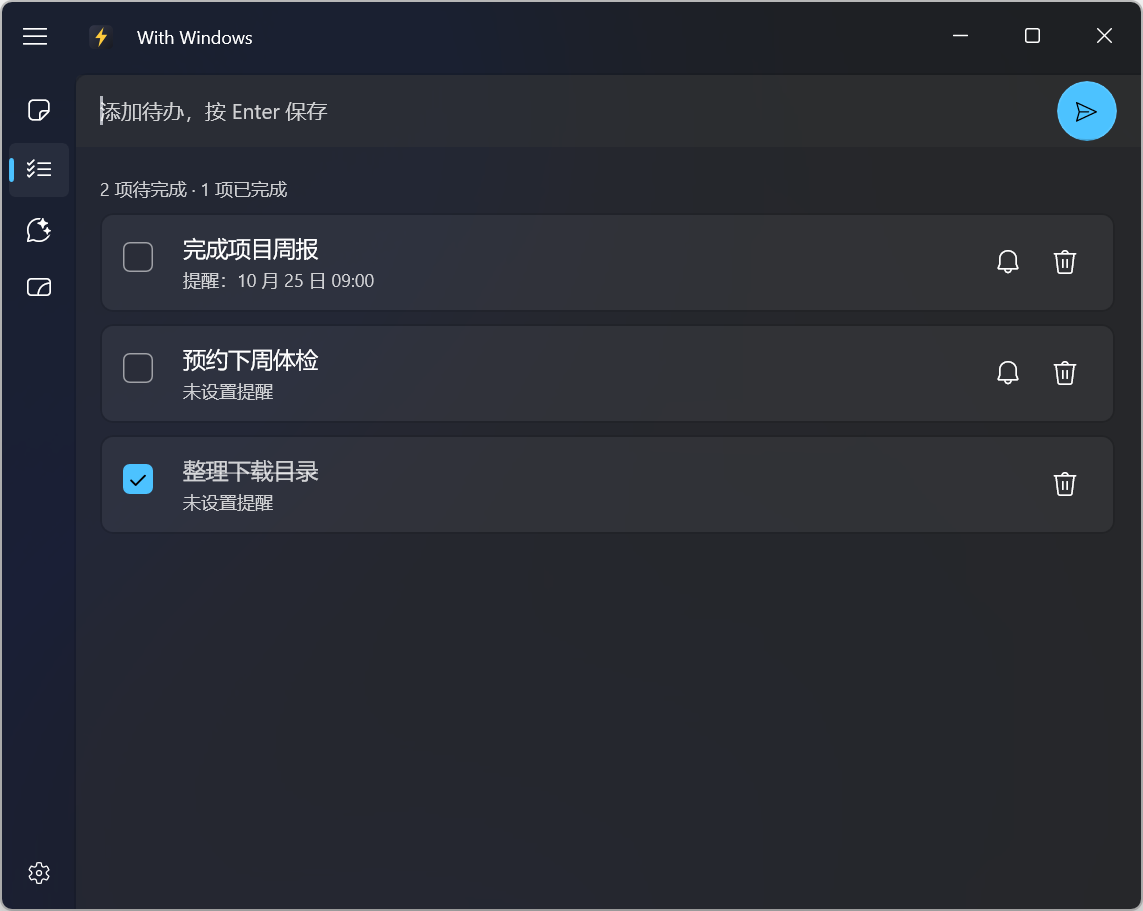
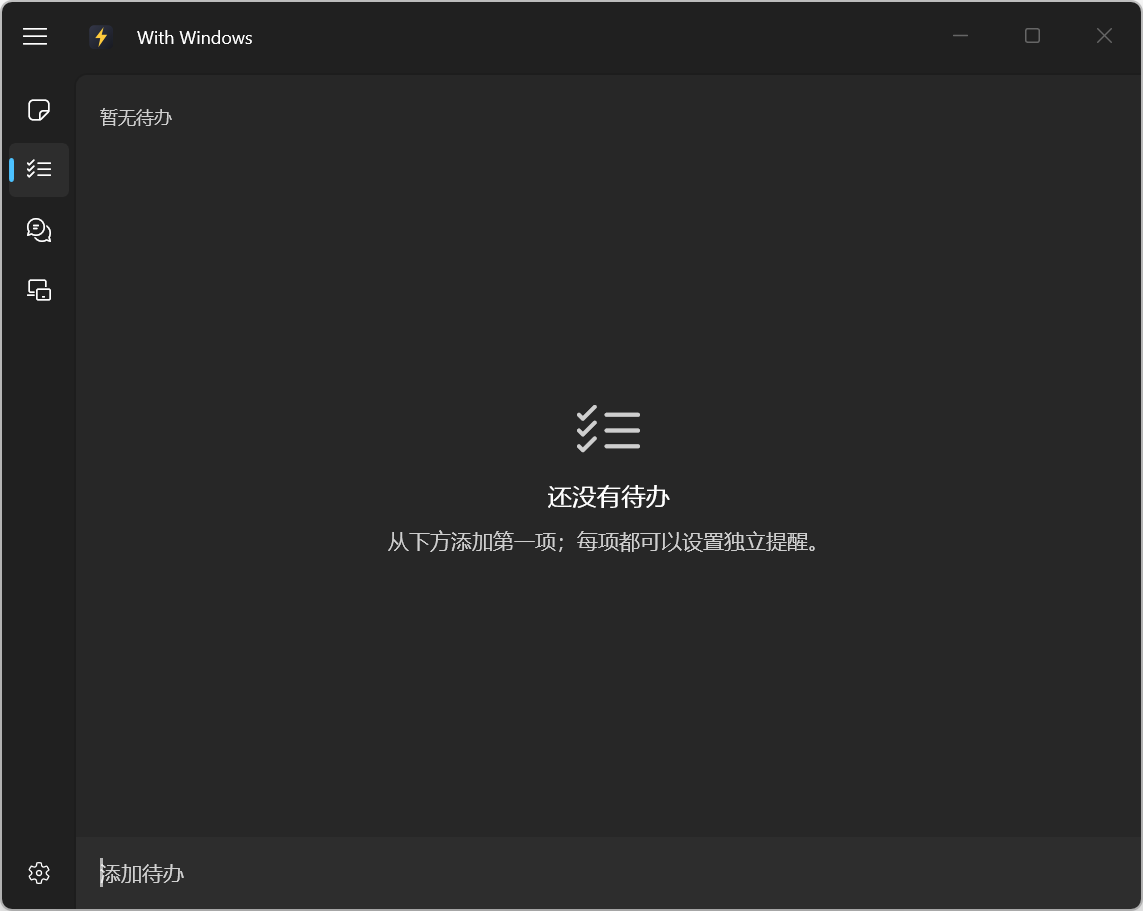
feat(界面): 调整待办输入、图标与托盘菜单

diff --git a/src/WithWindows.App/Views/TodoPage.xaml b/src/WithWindows.App/Views/TodoPage.xaml
@@ -98,20 +98,19 @@
     <Grid>
         <Grid.RowDefinitions>
             <RowDefinition Height="Auto" />
-            <RowDefinition Height="Auto" />
             <RowDefinition Height="*" />
+            <RowDefinition Height="Auto" />
         </Grid.RowDefinitions>
 
         <Grid
             x:Name="TodoToolbar"
+            Grid.Row="2"
             MinHeight="48"
             Padding="16,4"
             AutomationProperties.AutomationId="TodoToolbar"
-            Background="{ThemeResource LayerFillColorDefaultBrush}"
-            ColumnSpacing="8">
+            Background="{ThemeResource LayerFillColorDefaultBrush}">
             <Grid.ColumnDefinitions>
                 <ColumnDefinition Width="*" />
-                <ColumnDefinition Width="Auto" />
             </Grid.ColumnDefinitions>
 
             <TextBox
@@ -125,7 +124,7 @@
                 BorderThickness="0"
                 FontSize="14"
                 FocusVisualMargin="-4"
-                PlaceholderText="添加待办，按 Enter 保存"
+                PlaceholderText="添加待办"
                 PreviewKeyDown="OnNewInputKeyDown"
                 TextCompositionEnded="OnTextCompositionEnded"
                 TextCompositionStarted="OnTextCompositionStarted"
@@ -141,32 +140,11 @@
                     <Thickness x:Key="TextControlBorderThemeThicknessFocused">0</Thickness>
                 </TextBox.Resources>
             </TextBox>
-
-            <Button
-                Grid.Column="1"
-                Width="40"
-                Height="40"
-                Padding="0"
-                HorizontalContentAlignment="Center"
-                VerticalAlignment="Center"
-                VerticalContentAlignment="Center"
-                AutomationProperties.AutomationId="TodoAddButton"
-                AutomationProperties.Name="添加待办"
-                Click="OnAddClick"
-                CornerRadius="20"
-                Style="{StaticResource AccentButtonStyle}"
-                ToolTipService.ToolTip="添加待办">
-                <FontIcon FontSize="14" Glyph="&#xE724;">
-                    <FontIcon.RenderTransform>
-                        <TranslateTransform Y="1" />
-                    </FontIcon.RenderTransform>
-                </FontIcon>
-            </Button>
         </Grid>
 
         <InfoBar
             x:Name="TodoReminderBar"
-            Grid.Row="1"
+            Grid.Row="0"
             Margin="16,8,16,0"
             AutomationProperties.AutomationId="TodoReminderBar"
             IsClosable="True"
@@ -175,7 +153,7 @@
             Title="待办提醒" />
 
         <Grid
-            Grid.Row="2"
+            Grid.Row="1"
             MaxWidth="900"
             Margin="16,12,16,16"
             HorizontalAlignment="Stretch">
@@ -229,7 +207,7 @@
                         TextAlignment="Center" />
                     <TextBlock
                         Foreground="{ThemeResource TextFillColorSecondaryBrush}"
-                        Text="从上方添加第一项；每项都可以设置独立提醒。"
+                        Text="从下方添加第一项；每项都可以设置独立提醒。"
                         TextAlignment="Center"
                         TextWrapping="Wrap" />
                 </StackPanel>

diff --git a/src/WithWindows.App/Views/DisplayPage.xaml b/src/WithWindows.App/Views/DisplayPage.xaml
@@ -76,11 +76,11 @@
                                 <ColumnDefinition Width="Auto" />
                             </Grid.ColumnDefinitions>
 
-                            <!-- E7F9 = DeviceMonitorRightPic，与左栏「投影」项同一个字形 -->
+                            <!-- E975 = Devices2，与左栏「投影」项同一个字形 -->
                             <FontIcon
                                 Grid.Column="0"
                                 FontSize="20"
-                                Glyph="&#xE7F9;"
+                                Glyph="&#xE975;"
                                 VerticalAlignment="Center" />
 
                             <StackPanel Grid.Column="1" Spacing="2" VerticalAlignment="Center">

diff --git a/src/WithWindows.App/Services/TrayHost.cs b/src/WithWindows.App/Services/TrayHost.cs
@@ -3,13 +3,14 @@ using System.IO;
 using System.Linq;
 using Microsoft.UI.Xaml.Controls;
 using WinUIEx;
+using WithWindows.Core.Actions;
 using WithWindows.Tools;
 using WithWindows.Views;
 
 namespace WithWindows.Services;
 
 /// <summary>
-/// 托盘宿主：左键唤出主窗口，右键给出「记事 / 待办 / AI 对话 / 切换投影 · 设置 · 退出」。
+/// 托盘宿主：左键唤出主窗口，右键给出「记事 / 待办 / 对话 / 切换模式 · 设置 · 退出」。
 /// 实例必须由字段持有——被 GC 回收后图标会消失且没有任何报错。
 /// </summary>
 public sealed class TrayHost : IDisposable
@@ -84,8 +85,8 @@ public sealed class TrayHost : IDisposable
     }
 
     /// <summary>
-    /// 菜单选项：记事 / 待办 / AI 对话 / 切换投影 · 设置 · 退出。
-    /// 标题统一取自工具目录，避免改名后左栏与托盘叫法不一致。
+    /// 菜单选项：记事 / 待办 / 对话 / 切换模式 · 设置 · 退出。
+    /// 页面入口与左栏保持一致；操作项每次打开菜单时显示实际目标。
     /// </summary>
     private MenuFlyout BuildMenu()
     {
@@ -93,8 +94,14 @@ public sealed class TrayHost : IDisposable
 
         menu.Items.Add(NavigateItem(TitleOf(ToolCatalog.NotepadId), ToolCatalog.NotepadId, "TrayItemNotepad"));
         menu.Items.Add(NavigateItem(TitleOf(ToolCatalog.TodoId), ToolCatalog.TodoId, "TrayItemTodo"));
-        menu.Items.Add(NavigateItem(TitleOf(ToolCatalog.AiChatId), ToolCatalog.AiChatId, "TrayItemAiChat"));
-        menu.Items.Add(ActionItem(TitleOf(ToolCatalog.DisplayModeId), ToolCatalog.DisplayModeId, "TrayItemSwitchDisplay"));
+        menu.Items.Add(NavigateItem("对话", ToolCatalog.AiChatId, "TrayItemAiChat"));
+
+        var displayMode = new DisplayModeAction(
+            App.Host?.Config.DisplayMode.Modes.ToArray() ?? Array.Empty<string>());
+        menu.Items.Add(ActionItem(
+            displayMode.GetToggleMenuText(),
+            ToolCatalog.DisplayModeId,
+            "TrayItemSwitchDisplay"));
 
         menu.Items.Add(new MenuFlyoutSeparator());
         menu.Items.Add(NavigateItem("设置", SettingsPage.RouteTag, "TrayItemSettings"));

diff --git a/src/WithWindows.Core/Actions/DisplayModeAction.cs b/src/WithWindows.Core/Actions/DisplayModeAction.cs
@@ -33,6 +33,10 @@ public sealed class DisplayModeAction : IAction
         return new ActionResult(true, $"已切换显示模式：{ModeDisplayName(target)}");
     }
 
+    /// <summary>托盘菜单显示下一次 toggle 将切换到的模式。</summary>
+    public string GetToggleMenuText()
+        => ToggleMenuText(DisplayTopology.GetCurrentMode(), _toggleModes);
+
     /// <summary>决定目标模式与是否真正变化。纯函数，便于测试。</summary>
     internal static (string Target, bool IsChange) Decide(string? current, string requested, string[] toggleModes)
     {
@@ -50,6 +54,9 @@ public sealed class DisplayModeAction : IAction
         return index >= 0 ? modes[(index + 1) % modes.Length] : modes[0];
     }
 
+    internal static string ToggleMenuText(string? current, string[] toggleModes)
+        => $"切换：{MenuModeDisplayName(PickToggleTarget(current, toggleModes))}";
+
     /// <summary>模式名 → SDC_TOPOLOGY_* 标志数值。供测试断言。</summary>
     internal static uint TopologyFor(string mode) => mode switch
     {
@@ -65,6 +72,14 @@ public sealed class DisplayModeAction : IAction
         "internal" => "仅当前屏幕",
         "extend" => "扩展模式",
         "external" => "仅外接屏幕",
+        _ => "复制模式",
+    };
+
+    private static string MenuModeDisplayName(string mode) => mode switch
+    {
+        "internal" => "当前屏幕",
+        "extend" => "扩展模式",
+        "external" => "外接屏幕",
         _ => "复制模式",
     };
 }

diff --git a/src/WithWindows.App/Tools/ToolCatalog.cs b/src/WithWindows.App/Tools/ToolCatalog.cs
@@ -36,11 +36,11 @@ public static class ToolCatalog
         new ToolEntry(NotepadId, "记事", "\uE70B", typeof(NotepadPage), ShowInNav: true, HasHotkey: true),
         // E9D5 = CheckList（WinUI Gallery 图标表，tags: tasks, items, organize, progress）
         new ToolEntry(TodoId, "待办", "\uE9D5", typeof(TodoPage), ShowInNav: true, HasHotkey: false),
-        // EAB7 = ChatSparkle（WinUI Gallery 图标表，tags: chat, sparkle, ai）
-        new ToolEntry(AiChatId, "AI 对话", "\uEAB7", typeof(ChatPage), ShowInNav: true, HasHotkey: false),
-        // E7F9 = DeviceMonitorRightPic（WinUI Gallery 图标表，tags: projection/present）
-        new ToolEntry(DisplayPageId, "投影", "\uE7F9", typeof(DisplayPage), ShowInNav: true, HasHotkey: false),
-        new ToolEntry(DisplayModeId, "切换投影", "\uE7F9", PageType: null, ShowInNav: false, HasHotkey: true),
+        // E8F2 = ChatBubbles（WinUI Gallery 图标表，tags: chat, messages）
+        new ToolEntry(AiChatId, "AI 对话", "\uE8F2", typeof(ChatPage), ShowInNav: true, HasHotkey: false),
+        // E975 = Devices2（WinUI Gallery 图标表，tags: displays, hardware）
+        new ToolEntry(DisplayPageId, "投影", "\uE975", typeof(DisplayPage), ShowInNav: true, HasHotkey: false),
+        new ToolEntry(DisplayModeId, "切换模式", "\uE975", PageType: null, ShowInNav: false, HasHotkey: true),
     };
 
     /// <summary>导航项的可访问性标识：由工具 ID 生成（如 notepad → NavItemNotepad）。</summary>

diff --git a/tests/WithWindows.Core.Tests/DisplayModeActionTests.cs b/tests/WithWindows.Core.Tests/DisplayModeActionTests.cs
@@ -79,4 +79,12 @@ public class DisplayModeActionTests
         Assert.Equal("extend", target);
         Assert.True(isChange);
     }
+
+    [Theory]
+    [InlineData("internal", "切换：扩展模式")]
+    [InlineData("extend", "切换：当前屏幕")]
+    public void ToggleMenuText_显示下一次切换目标(string current, string expected)
+        => Assert.Equal(
+            expected,
+            DisplayModeAction.ToggleMenuText(current, new[] { "internal", "extend" }));
 }

diff --git a/src/WithWindows.App/Views/TodoPage.xaml.cs b/src/WithWindows.App/Views/TodoPage.xaml.cs
@@ -116,8 +116,6 @@ public sealed partial class TodoPage : Page
         TextCompositionEndedEventArgs args)
         => _isComposing = false;
 
-    private void OnAddClick(object sender, RoutedEventArgs e) => AddTodo();
-
     private void AddTodo()
     {
         string title = NewTodoInput.Text.Trim();

diff --git a/docs/agents/ui-baseline.md b/docs/agents/ui-baseline.md
@@ -29,13 +29,13 @@ winapp ui screenshot -a WithWindows
 
 ## 待办
 
-- 顶部工具栏：`TodoToolbar`
-- 输入与发送：`TodoNewInput`、`TodoAddButton`
+- 底部输入栏：`TodoToolbar`
+- 输入：`TodoNewInput`
 - 列表与摘要：`TodoList`、`TodoSummary`
 - 状态提示：`TodoReminderBar`、`TodoErrorBar`、`TodoEmptyState`
 - 行操作：`TodoComplete_*`、`TodoReminder_*`、`TodoDelete_*`
 
-待办工具栏高度为 48 DIP。输入框保持透明背景和透明边框，键盘聚焦时显示系统焦点框；文字与发送图标视觉居中。
+待办输入栏位于页面底部且高度为 48 DIP。输入框保持透明背景和透明边框，键盘聚焦时显示系统焦点框；按 `Enter` 添加，不显示发送按钮。
 
 ## AI 对话
 

diff --git a/docs/design/2026-10-23-todo-reminders-design.md b/docs/design/2026-10-23-todo-reminders-design.md
@@ -86,7 +86,7 @@
 页面布局参考待办类应用，内容限宽并居中：
 
 - 标题区显示「待办」与未完成数量摘要；
-- 顶部为标题输入框和「添加」按钮，按 `Enter` 也可添加；
+- 底部为标题输入框，按 `Enter` 添加；
 - 主区域使用原生 `ListView` 展示待办；
 - 未完成项在前，已完成项在后；同组按创建时间排序；
 - 每行包含完成复选框、标题、提醒摘要、提醒按钮和删除按钮；

diff --git a/docs/agents/ui-conventions.md b/docs/agents/ui-conventions.md
@@ -43,7 +43,7 @@
     ConvertFrom-Json | Where-Object { $_.Name -like '*Monitor*' } | Format-Table Name, Code, Tags
   ```
 
-  例：投影用的 `DeviceMonitorRightPic` = `E7F9`（tags: projection/present），本项目导航与托盘都用它。
+  例：投影用的 `Devices2` = `E975`（tags: displays/hardware），本项目导航与投影页都用它。
 
 ## 六、参考实现（写代码前先看这两处）
 
